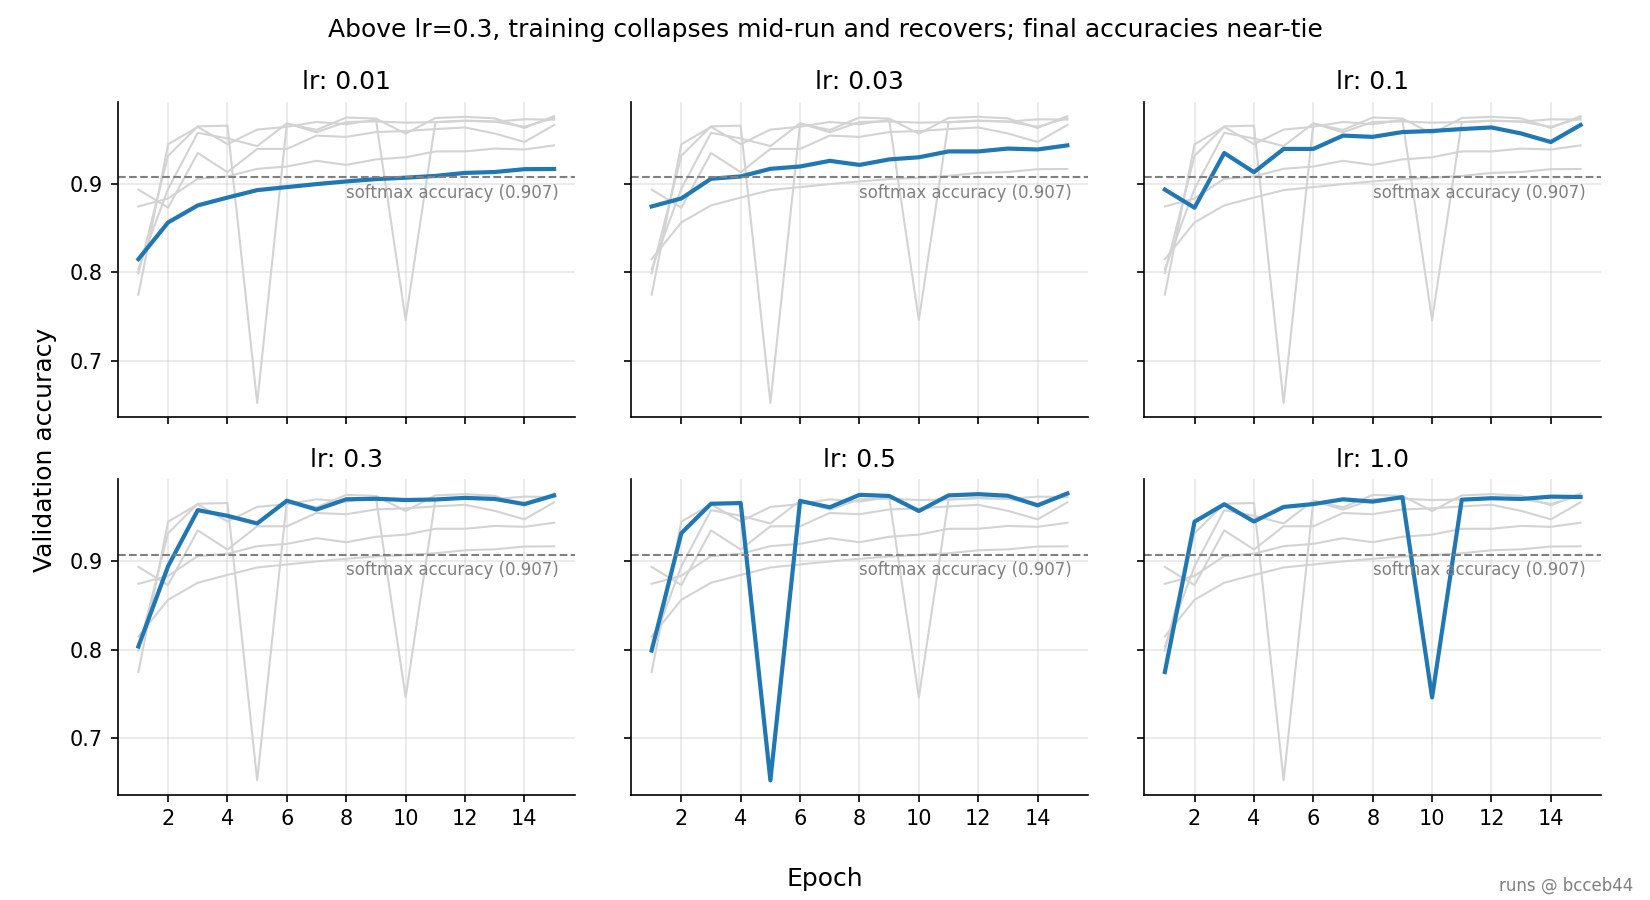
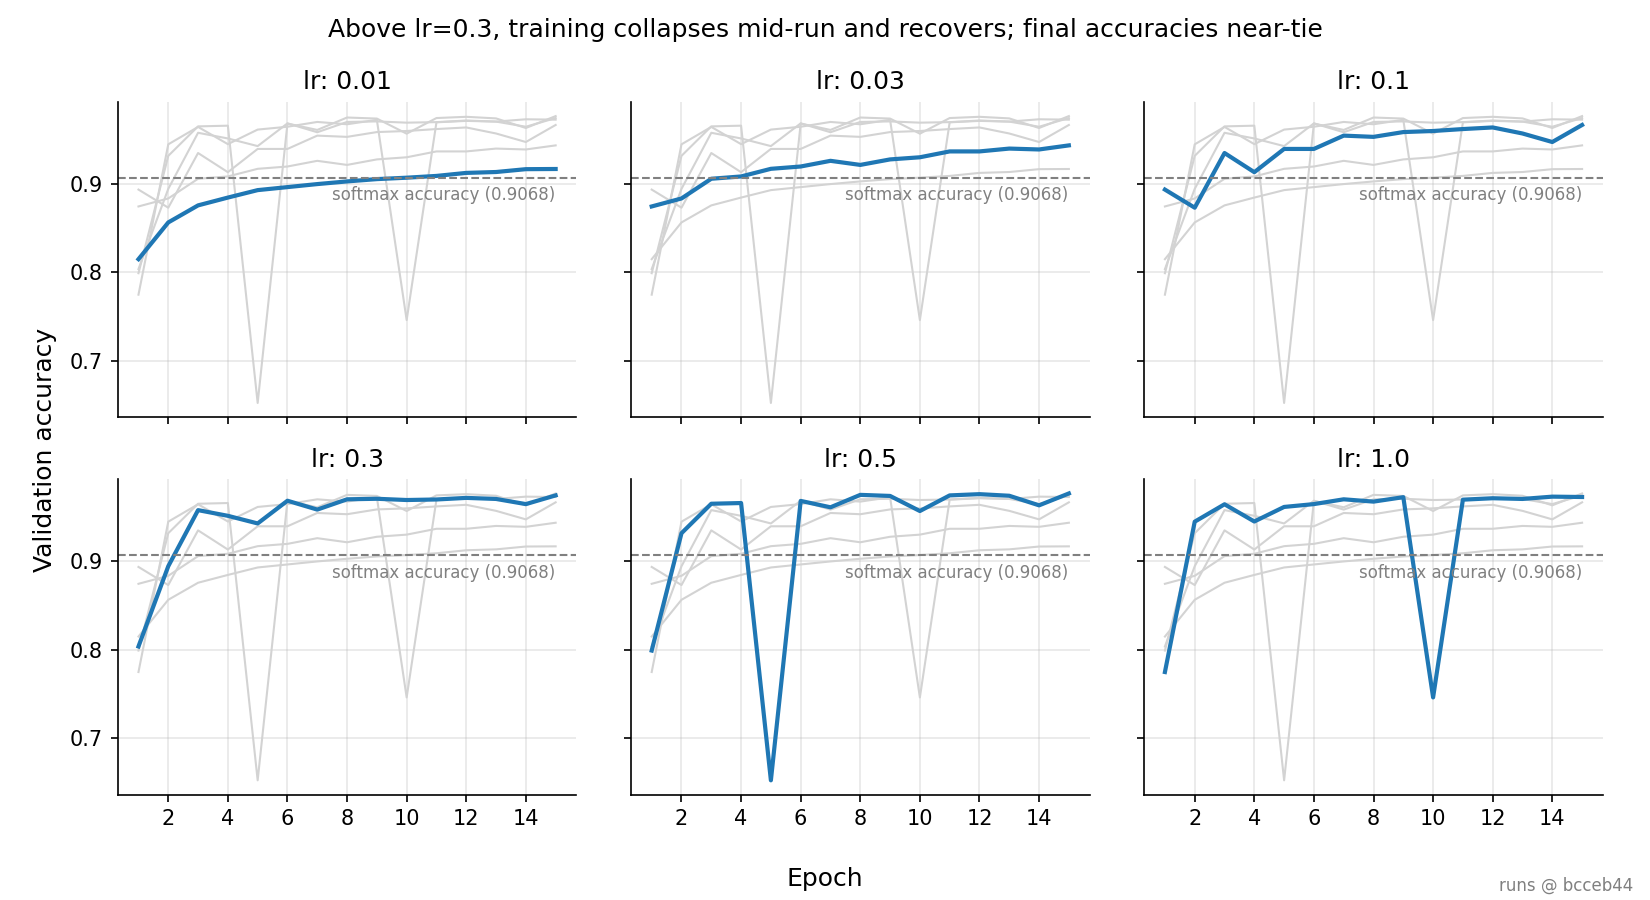
Plot the sweep from results/ by default; add --runs-dir

diff --git a/src/plot_lr_sweep.py b/src/plot_lr_sweep.py
@@ -1,31 +1,40 @@
 import argparse
-from pathlib import Path
 import json
 import math
+from pathlib import Path
+
 import matplotlib.pyplot as plt
-from matplotlib.ticker import MaxNLocator
 import numpy as np
+from matplotlib.ticker import MaxNLocator
 
 ROOT = Path(__file__).resolve().parent.parent
-RES_DIR = ROOT / "results"
-LRS_DIR = RES_DIR / "lr_sweep"
+RESULTS_DIR = ROOT / "results"
+SWEEP_DIR = RESULTS_DIR / "lr_sweep"
 FIG_DIR = ROOT / "figures"
+SOFTMAX_VAL_ACC = 0.9068  # softmax baseline, README.md results table
 
-def load_runs(commit):
-    run_paths = list(LRS_DIR.glob("*_mlp"))
+
+def load_runs(commit, runs_dir):
+    """Load all runs for the given commit from `runs_dir`.
+
+    Return a dictionary of learning rates to their validation accuracy
+    and training loss histories for the given commit.
+    The returned dictionary is of the form `{lr: {"val": [], "loss": []}}`.
+    """
+    run_paths = sorted(runs_dir.glob("*_mlp"))
     runs = {}
 
     for path in run_paths:
         config_path = path / "config.json"
-        with open(config_path, "r") as cf:
-            config = json.load(cf)
+        with open(config_path) as f:
+            config = json.load(f)
         if config["commit"] == commit:
             if config["lr"] in runs:
                 dupe_lr = config["lr"]
-                raise ValueError(f"multiple runs of learning rate {dupe_lr} found for commit {commit}")
+                raise ValueError(f"multiple runs with lr={dupe_lr} found for commit {commit}")
             history_path = path / "history.json"
-            with open(history_path, "r") as his:
-                history = json.load(his)
+            with open(history_path) as f:
+                history = json.load(f)
             runs[config["lr"]] = {"val": history["val_acc"], "loss": history["train_loss"]}
 
     if not runs:
@@ -34,11 +43,14 @@ def load_runs(commit):
     runs = dict(sorted(runs.items()))
     return runs
 
+
 def plot_accuracy(commit, runs, path, title):
+    """Plot small multiples of validation accuracy for each learning rate and save to `path`."""
     n = len(runs)
     cols = min(3, n)
     rows = math.ceil(n / cols)
-    acc_fig, acc_axes = plt.subplots(rows, cols, figsize=(11, 3 * rows), squeeze=False, sharex=True, sharey=True)
+    acc_fig, acc_axes = plt.subplots(rows, cols, figsize=(11, 3 * rows),
+                                     squeeze=False, sharex=True, sharey=True)
 
     for acc_ax, lr in zip(acc_axes.flat, runs):
         epochs = np.arange(1, len(runs[lr]["val"]) + 1)
@@ -49,9 +61,9 @@ def plot_accuracy(commit, runs, path, title):
         acc_ax.xaxis.set_major_locator(MaxNLocator(integer=True))
         acc_ax.grid(alpha=0.3)
         acc_ax.spines[["top", "right"]].set_visible(False)
-        acc_ax.axhline(0.907, color="gray", linestyle="--", linewidth=1)
-        acc_ax.text(8, 0.900, "softmax accuracy (0.907)", va="top", fontsize=8, color="gray")
-
+        acc_ax.axhline(SOFTMAX_VAL_ACC, color="gray", linestyle="--", linewidth=1)
+        acc_ax.text(7.5, SOFTMAX_VAL_ACC - 0.01, f"softmax accuracy ({SOFTMAX_VAL_ACC:.4f})",
+                    va="top", fontsize=8, color="gray")
 
     for empty_ax in acc_axes.flat[n:]:
         empty_ax.set_visible(False)
@@ -65,14 +77,16 @@ def plot_accuracy(commit, runs, path, title):
     acc_fig.savefig(path, dpi=150)
     plt.close(acc_fig)
 
+
 def plot_loss(commit, runs, path, title):
+    """Plot training loss for each learning rate and save to `path`."""
     colors = plt.cm.Blues(np.linspace(0.45, 1.0, len(runs)))
     loss_fig, loss_ax = plt.subplots()
     for lr, color in zip(runs, colors):
         epochs = np.arange(1, len(runs[lr]["loss"]) + 1)
         loss_ax.plot(epochs, runs[lr]["loss"], color=color, linewidth=2, label=f"lr = {lr}")
         loss_ax.annotate(f"lr {lr}", xy=(epochs[-1], runs[lr]["loss"][-1]),
-                        xytext=(6, 0), textcoords="offset points", va="center", fontsize=9)
+                         xytext=(6, 0), textcoords="offset points", va="center", fontsize=9)
 
     loss_ax.xaxis.set_major_locator(MaxNLocator(integer=True))
     loss_ax.grid(alpha=0.3)
@@ -86,22 +100,32 @@ def plot_loss(commit, runs, path, title):
     loss_ax.axhline(np.log(10), color="gray", linestyle="--", linewidth=1)
     loss_ax.text(1, np.log(10), " random guessing (ln 10)", va="bottom", fontsize=8, color="gray")
 
-
     loss_fig.tight_layout()
     loss_fig.savefig(path, dpi=150)
     plt.close(loss_fig)
 
+
 def parse_args():
+    """Parse command line arguments for the learning rate sweep plotter."""
     parser = argparse.ArgumentParser()
     parser.add_argument("--commit", required=True)
+    parser.add_argument("--runs-dir", type=Path, default=SWEEP_DIR)
     return parser.parse_args()
 
+
 def main():
+    """Plot the results of the learning rate sweep for the given commit and save to figures/."""
     args = parse_args()
     commit = args.commit
-    runs = load_runs(commit)
-    plot_accuracy(commit, runs, FIG_DIR / "lr_sweep_accuracy.png", "Above lr=0.3, training collapses mid-run and recovers; final accuracies near-tie")
-    plot_loss(commit, runs, FIG_DIR / "lr_sweep_loss.png", "Higher learning rates lower loss faster;\nat 0.5 and 1.0 it spikes back to about random guessing")
+    runs_dir = args.runs_dir
+    runs = load_runs(commit, runs_dir)
+    acc_title = ("Above lr=0.3, training collapses mid-run and recovers; "
+                 "final accuracies near-tie")
+    loss_title = ("Higher learning rates lower loss faster;\n"
+                  "at 0.5 and 1.0 it spikes back to about random guessing")
+    plot_accuracy(commit, runs, FIG_DIR / "lr_sweep_accuracy.png", acc_title)
+    plot_loss(commit, runs, FIG_DIR / "lr_sweep_loss.png", loss_title)
+
 
 if __name__ == "__main__":
     main()

diff --git a/README.md b/README.md
@@ -43,7 +43,7 @@ Kaggle's [Digit Recognizer](#kaggle) uses MNIST ([LeCun et al., 1998](#lecun)):
   ![Softmax regression gradient, derived by hand](docs/derivation_softmax.jpg)
   ![Two-layer network backpropagation, derived by hand](docs/derivation_mlp.jpg)
 
-- **Gradient check:** For five randomly chosen entries of each parameter array: nudges each entry by ±0.00001 to compute slope directly with finite difference, compares it with gradient returned by `backward()`. Maximum relative error: 3.3 × 10⁻⁹.
+- **Gradient check:** For five randomly chosen entries of each parameter array: nudges each entry by ±10⁻⁵ to compute slope directly with finite difference, compares it with gradient returned by `backward()`. Maximum relative error: 3.3 × 10⁻⁹.
 - **Tests:** 22 tests, run with `python -m pytest -v`:
   - Data (scaling, shapes, a non-overlapping split that spans the training set, reproducibility, one-hot encoding)
   - Softmax (rows sum to 1, overflow guard, shift invariance, uniform loss = ln 10, one-step loss decreases)
@@ -144,12 +144,18 @@ python -m src.train --model mlp --lr 0.3
 Each run creates `runs/<timestamp>_<model>/` with `config.json`, `history.json`
 and `submission.csv` (the file to upload to Kaggle).
 
-**Reproduce the learning-rate sweep**
+**Redraw the plots from the saved numbers**
+
+```bash
+python -m src.plot_lr_sweep --commit bcceb44
+```
+
+**Reproduce the learning-rate sweep from scratch**
 ```bash
 for lr in 0.01 0.03 0.1 0.3 0.5 1.0; do
     python -m src.train --model mlp --lr $lr
 done
-python -m src.plot_lr_sweep --commit $(git describe --always --dirty)
+python -m src.plot_lr_sweep --runs-dir runs --commit $(git describe --always --dirty)
 ```
 Results are identical on the same machine; on others, the last digits may differ.
 
